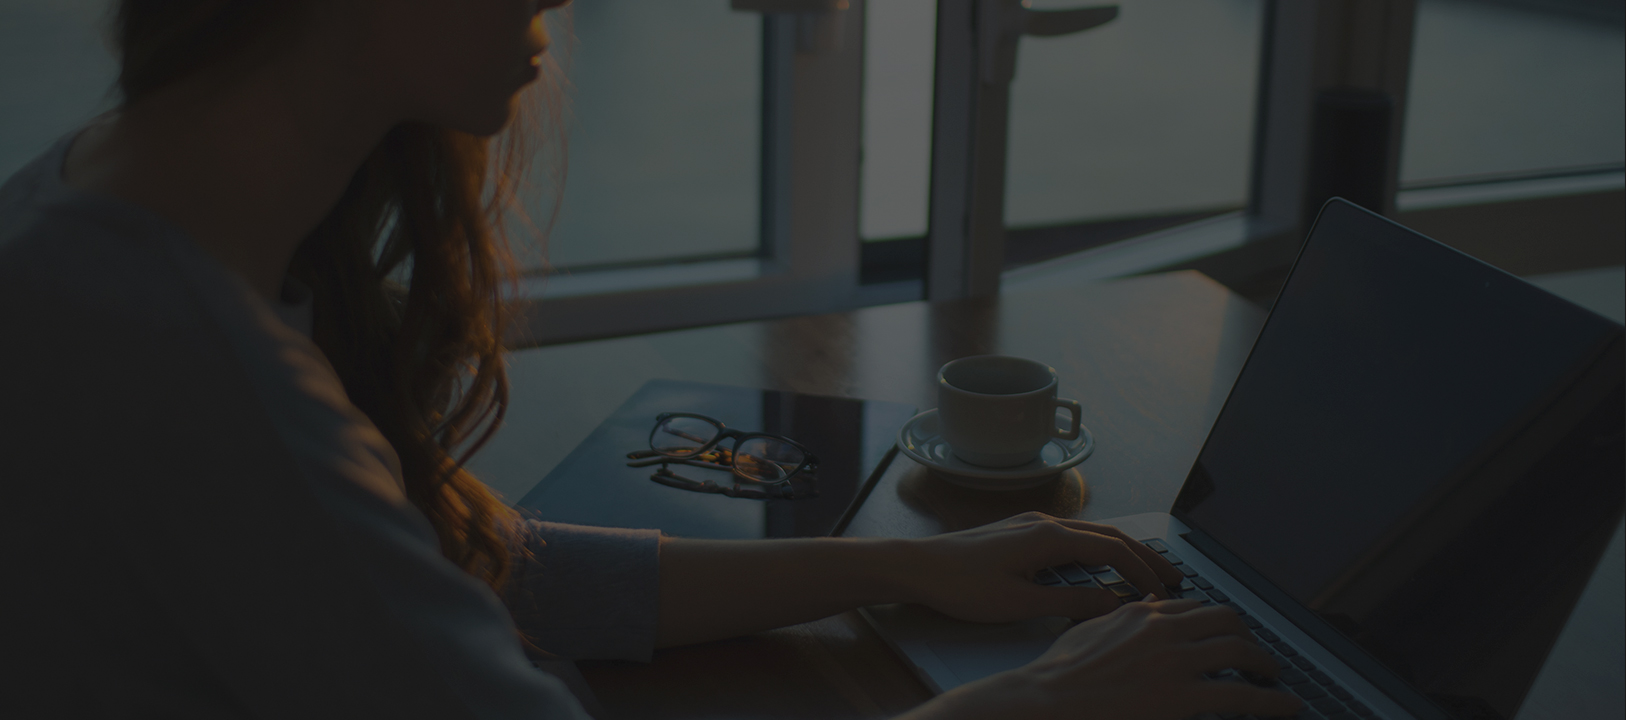
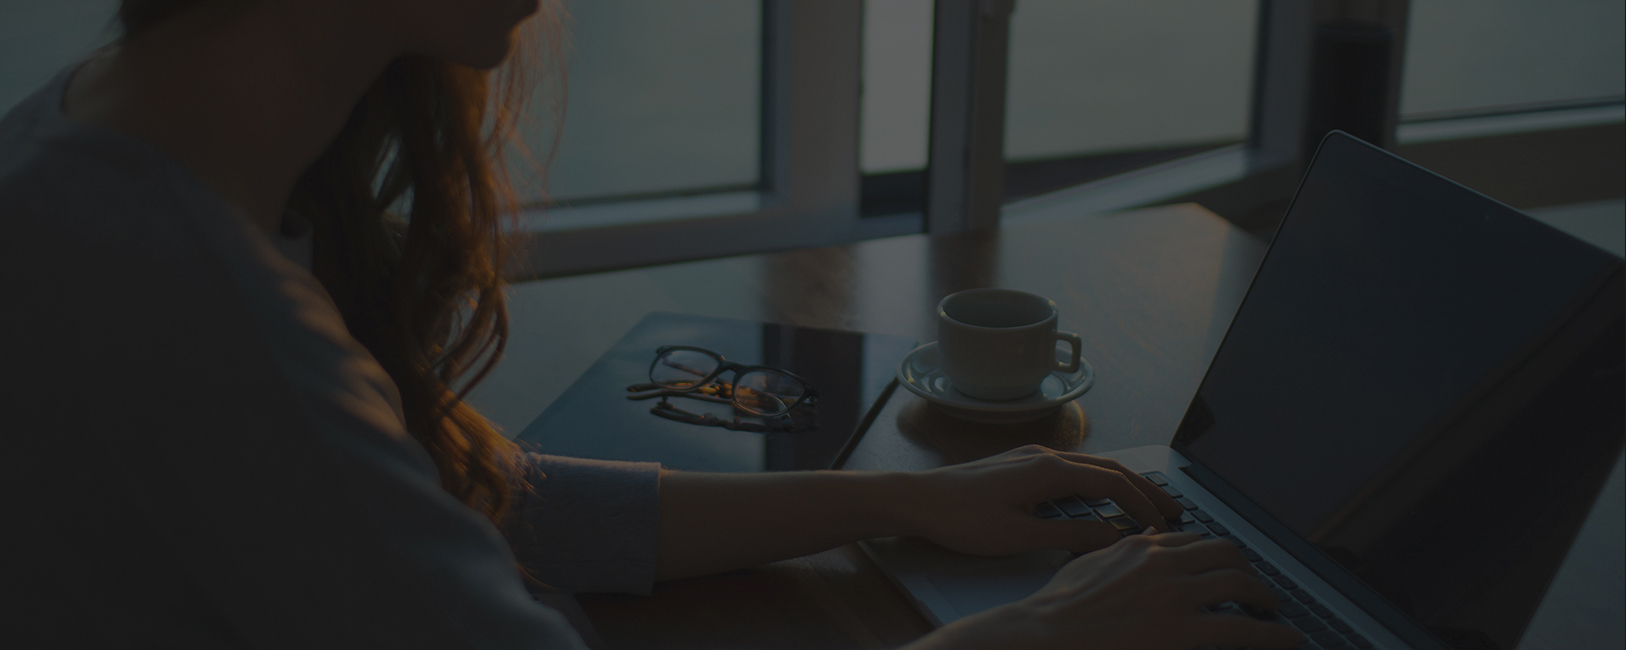
사이트 애니메이션 및 프로필 사진 변경

diff --git a/docs/css/css.css b/docs/css/css.css
@@ -25,8 +25,8 @@ input { margin:0; padding:0; border:0; outline:0; cursor: pointer;
 
 
 /* home */
-.home {background:url(../images/main.jpg) no-repeat center center; background-attachment:fixed;
-      background-size:cover; height:650px; width:100%;}
+.home {background:url(../images/main.jpg) no-repeat center -200px; background-attachment:fixed;
+      background-size:cover; height:600px;}
 .home .home-txt {position: absolute; left: 0; top:280px;}
 .home .home-txt h2 {color:#fff; font-weight:200; font-size:50px; line-height: 1.2;}
 .home .home-txt h2 span {font-weight:400;}
@@ -36,13 +36,26 @@ input { margin:0; padding:0; border:0; outline:0; cursor: pointer;
                 display: inline-block; margin-top:40px;}
 .home .btn-join {animation-delay:0.5s;}
 
-.animated {animation-duration: 3s; animation-fill-mode: both;}
-.fadeIn {animation-name: fadeIn;}
+/* animation effect */
+.animated {animation-duration: 3s; animation-fill-mode: both; opacity: 0;}
+.fadeIn {animation-name: fadeIn;} 
+.fadeInLeft {animation-name: fadeInLeft; animation-delay:0.5s;}
+.fadeInRight {animation-name: fadeInRight;}
+       
 @keyframes fadeIn {
 from {opacity: 0;}
 to {opacity: 1;}
 }
-
+@keyframes fadeInLeft {
+from {opacity: 0;transform: translate3d(-100%, 0, 0);}    
+to {opacity: 1; transform: none;}
+}
+@keyframes fadeInRight {
+from {opacity: 0;transform: translate3d(50%, 0, 0);}
+ to {opacity: 1;transform: none;}
+}
+    
+    
 
 /* 공통 title, text-box*/
 .number {position:absolute; font-size:200px; font-weight: 700; color:rgba(224,224,224,0.4);}
@@ -147,7 +160,7 @@ section{padding:150px 0;position: relative;}
 
 
 /* about */
-.about {background:#f6f6f6; position:relative; padding-top:0; }
+.about {background:#f6f6f6; position:relative; padding-top:0;}
 .about h3{color:#fff;}
 .about .profile-bg {background: url(../images/about-bg.jpg) no-repeat center;
               background-size: cover; height:350px; padding-top:150px; box-sizing: border-box;}
@@ -180,9 +193,11 @@ section{padding:150px 0;position: relative;}
 .about .skills span:nth-child(8) {color:#00b3ff;}
 .about .skills span:nth-child(9) {color:#f1bf26;}
 .about .skills span:nth-child(10) {color:#0184ff;}
+
+
 /* footer */
 
-footer {background: #222; height:100px; text-align: center; color:#888; padding-top:50px;}
+footer {background: #222; height:120px; text-align: center; color:#888; padding-top:30px;}
 footer p {line-height:1.5; font-size: 15px; }
 footer .last {padding-bottom: 10px;}
 small {font-size:14px;}

diff --git a/docs/index.html b/docs/index.html
@@ -92,7 +92,7 @@
                 </div>
               </div>
             </div>
-            <div class="content-text">
+            <div class="content-text list-text1 animated">
               <h4>이니스프리 website 리디자인</h4>
               <p>퍼블리싱100% 디자인100%</p>
               <p>PC / Mobile</p>
@@ -128,7 +128,7 @@
               </div>
             </div>
           </div>
-            <div class="content-text">
+            <div class="content-text list-text2 animated">
               <h4>Audi website 리디자인</h4>
               <p>퍼블리싱100% 디자인100%</p>
               <p>PC / Mobile</p>
@@ -164,7 +164,7 @@
                 </div>
               </div>
             </div>
-            <div class="content-text">
+            <div class="content-text list-text3 animated">
               <h4>Home-Learn 랜딩페이지</h4>
               <p>퍼블리싱100% 디자인100%</p>
               <p>PC / Mobile / 반응형</p>
@@ -527,7 +527,7 @@
           <li class="info">
             <h5>INFO</h5>
             <div class="line"></div>
-            <ol class="info-list">
+            <ol class="info-list animated">
             <li><img src="images/smile-regular.svg" alt=""> 김진아</li>
             <li><img src="images/mobile-alt-solid.svg" alt=""><span id="num"> 010.6362.0225</span></li>
             <li><img src="images/envelope-regular.svg" alt=""> bargre@naver.com</li>
@@ -537,7 +537,7 @@
           <li class="skills">
             <h5>SKILLS</h5>
             <div class="line"></div>
-            <div class="skill-list">
+            <div class="skill-list animated">
               <span>Ps</span>
               <span>Ai</span>
               <span>In</span>
@@ -558,7 +558,7 @@
           <li>
             <h5>WORK EXPERIENCES</h5>
             <div class="line"></div>
-            <ol>
+            <ol class="animated">
               <li><small>2020-2020 |</small> 머니브레인 - 일러스트레이터(프리랜서)</li>
               <li><small>2017-2019 |</small> 로보티즈 - 콘텐츠 디자이너(대리)</li>
               <li><small>2016-2017 |</small> 유니아트미술학원 - 편집 디자이너 & 전임강사</li>

diff --git a/docs/js/common.js b/docs/js/common.js
@@ -32,14 +32,22 @@ $(".tab-menu a").click(function(){
   $(window).scroll(function(){
     var _h= $(window).scrollTop();
     console.log(_h);
-if((_h>=0)&&(_h<1500)){
+if((_h>=0)&&(_h<300)){
   $(".num_left01").stop().animate({top:-250, opacity:1},500);
-  }else if((_h>=1500)&&(_h<2500)){
+  }else if((_h>=300)&&(_h<800)){
+    $(".list-text1").addClass("fadeInRight");
+  }else if((_h>=800)&&(_h<1300)){
+    $(".list-text2").addClass("fadeInRight");
+  }else if((_h>=1300)&&(_h<2000)){
+    $(".list-text3").addClass("fadeInRight");
+  }else if((_h>=2000)&&(_h<3000)){
     $(".num_right02").stop().animate({top:-250, opacity:1},500);
-  }else if((_h>=2500)&&(_h<3300)){
+  }else if((_h>=3000)&&(_h<3500)){
     $(".num_left03").stop().animate({top:-250, opacity:1},500);
-  }else{
-    $(".num_right04").stop().animate({top:-250, opacity:1},500);
+  }else if((_h>=3500)&&(_h<4000)){
+    $(".num_right04").stop().animate({top:-250, opacity:1},500); 
+  }else if(_h>=4000) {
+    $(".about li .animated").addClass("fadeIn");
   }
 });
 
